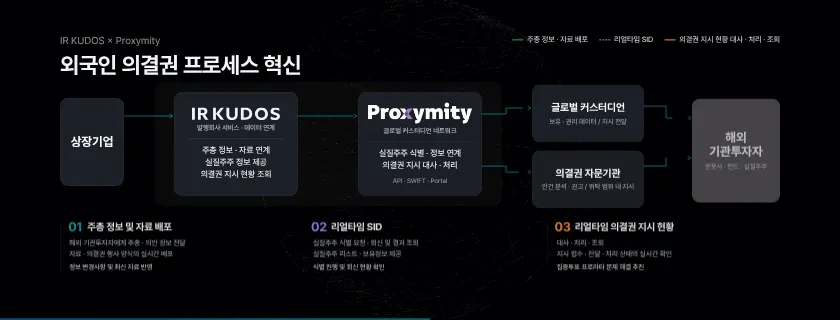
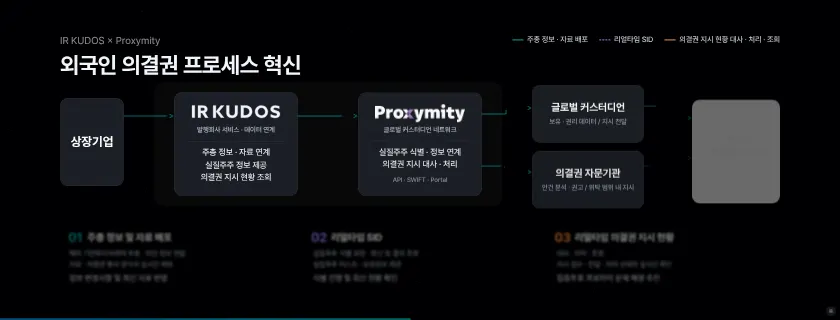
세션4 K19b: IR KUDOS 워드마크 인라인 SVG, Proxymity 로고 축소, 01~03 아래로 · 마지막 줄 40px
Claude-Session: https://claude.ai/code/session_01Mn7NmyW5iujmmHnaRBFKBZ

diff --git a/session4.html b/session4.html
@@ -2005,6 +2005,14 @@ html.r169 #K27 .sec-c{--k27y:560px}
 @keyframes k27s{from{opacity:0}to{opacity:1}}
 /* 11/27 21:02 K18b 뒤 KOSMOS 웹 화면: 아래 페더 마스크 삭제, 크게 키워 오른쪽 · 아래가 화면 밖으로 잘리게 */
 #K18b .k18web{width:2600px!important;height:1700px!important;border-radius:32px 0 0 0!important;-webkit-mask-image:none!important;mask-image:none!important;background-position:left top!important;background-size:125% auto!important}
+/* 11/27 21:04 K19b: IR KUDOS 워드마크를 인라인 SVG로(확대 · 블러 모션에서도 깨지지 않게), Proxymity 로고 약간 축소, 아래 01~03 묶음 40px 아래 · 맨 아래 한 줄 34 → 40px */
+#K19b svg.wm{display:block;width:auto;flex:none;overflow:visible}
+#K19b .irk svg.wm{height:64px;max-width:440px}
+#K19b .k19i svg.wm{height:128px}
+#K19b .pxy img{height:90px}
+#K19b .k19i img:last-child{height:158px}
+#K19b .k19c{top:1210px}
+#K19b .cf{font-size:40px}
 /* ═════ 16:9 버전 (?a=16x9, 11/27) ═════
    ※ 빔프로젝터(led.html?a=16x9) M7-7이 이 모드를 씀. 장을 고치면 ?a=16x9로도 확인하고, 21:8 원본 위치를 바꾸면 아래 html.r169 #Kxx 규칙도 같이 맞출 것.
       R169Z(묶음 축소) 장은 내용 범위를 자동으로 재서 배치하므로 대부분 따라감.
@@ -2324,12 +2332,12 @@ html.r169 #K18a .card,html.r169 #K18c .card{left:60px;right:220px}
 </section>
 
 <section class="s" id="K19b" data-t="외국인 의결권 프로세스 혁신" data-dim=".14">
- <div class="k19i"><img src="assets/irk-wordmark-white.svg" alt="IR KUDOS"><canvas class="k19x" data-viz="xs" width="440" height="440"></canvas><img src="assets/s4/proxymity-logo.png" alt="Proxymity"></div>
+ <div class="k19i"><svg class="wm" role="img" aria-label="IR KUDOS" xmlns="http://www.w3.org/2000/svg" viewBox="221.85 85.21 792.44 113.41"> <g> <path d="M970.2,177.85c10.82,0,17.47-3.76,17.47-11.28,0-5.26-3.16-8.12-10.65-10.83s-22.47-6.62-32.45-11.88c-9.99-5.26-15.31-13.08-15.31-25.26,0-20.9,16.81-33.38,42.1-33.38,11.82,0,26.13,2.71,36.61,7.67v23.16c-12.65-7.07-26.79-10.07-35.95-10.07-9.82,0-16.14,3.46-16.14,10.38,0,5.26,3.33,7.97,10.98,10.68,7.66,2.71,22.63,6.47,32.62,11.88s14.81,14.14,14.81,25.56c0,21.5-17.47,34.14-43.6,34.14-12.48,0-28.12-3.01-39.61-8.57v-24.06c13.48,8.42,29.79,11.88,39.11,11.88v-.02Z" style="fill: #F2F5FA;"/> <polygon points="511.09 85.22 481.74 85.22 437.22 140.41 437.22 135.58 437.22 135.58 437.22 85.22 411.88 85.22 411.88 195.7 437.22 195.7 437.22 141.83 437.22 141.83 437.22 140.58 481.74 195.77 511.09 195.77 466.51 140.49 511.09 85.22" style="fill: #F2F5FA;"/> <path d="M557.13,85.22v62.48c0,7.97,1.13,15.03,5.5,20.39,4.37,5.37,11,8.59,20.22,8.59s15.85-3.22,20.22-8.59,5.66-12.42,5.66-20.39v-62.48h24.74v64.01c0,12.27-2.75,24.69-11.32,34.04-8.57,9.35-22.32,15.33-39.78,15.33s-31.21-5.83-39.62-15.33-11.32-21.31-11.32-34.04v-64.01h25.71-.01Z" style="fill: #F2F5FA;"/> <path d="M661.78,85.22h42.65c17.06,0,32.07,5.34,42.81,15.57,10.74,10.23,16.59,24.13,16.59,39.7s-5.84,29.47-16.59,39.7c-10.74,10.23-25.59,15.57-42.65,15.57h-42.81v-110.55h0ZM727.81,165.99c6.79-5.8,10.9-15.12,10.9-25.5s-4.11-19.7-10.9-25.5-15.64-8.55-25.59-8.55h-15.32v68.1h15.32c9.95,0,18.8-2.75,25.59-8.55h0Z" style="fill: #F2F5FA;"/> <path d="M789.35,141.2c0-31.67,25.06-55.99,58.11-55.99s58.11,25.73,58.11,57.4-25.06,55.99-58.11,55.99-58.11-25.73-58.11-57.4ZM881.13,142.61c0-19.36-14.45-36.08-33.67-36.08s-33.67,16.72-33.67,36.08,14.45,34.67,33.67,34.67,33.67-15.31,33.67-34.67Z" style="fill: #F2F5FA;"/> <path d="M221.85,85.22h25.51v110.55h-25.51v-110.55Z" style="fill: #F2F5FA;"/> <path d="M275.66,85.22h41.75c12.24,0,21.82,1.98,29.66,7.48,7.85,5.5,13.18,14.51,13.18,26.57,0,14.66-8.16,25.8-21.97,31l30.92,45.5h-28.57l-27.94-41.99h-12.08v41.99h-24.96v-110.55h.01ZM315.99,134.54c6.28,0,10.52-.76,13.97-3.05,3.45-2.29,5.34-6.57,5.34-11.15,0-4.89-2.04-9.01-5.34-11.3-3.3-2.29-7.69-3.05-13.97-3.05h-15.38v28.55h15.38Z" style="fill: #F2F5FA;"/> </g> </svg><canvas class="k19x" data-viz="xs" width="440" height="440"></canvas><img src="assets/s4/proxymity-logo.png" alt="Proxymity"></div>
  <div class="top"><p class="eb fu q" style="--i:1">IR KUDOS × Proxymity</p><h2 class="h hm fu" style="--i:1">외국인 의결권 프로세스 혁신</h2></div>
  <div class="lgd fu" style="--i:2"><span class="t"><i></i>주총 정보 · 자료 배포</span><span class="p"><i></i>리얼타임 SID</span><span class="o"><i></i>의결권 지시 현황 대사 · 처리 · 조회</span></div>
  <div class="core fu" style="--i:2"></div>
  <div class="nd co fu" style="--i:2;left:300px;top:560px;width:320px;height:440px"><b>상장기업</b></div>
- <div class="nd irk fu" style="--i:3;left:870px;top:530px;width:620px;height:520px"><img src="assets/irk-wordmark-white.svg" alt="IR KUDOS"><small>발행회사 서비스 · 데이터 연계</small><hr><p>주총 정보 · 자료 연계<br>실질주주 정보 제공<br>의결권 지시 현황 조회</p></div>
+ <div class="nd irk fu" style="--i:3;left:870px;top:530px;width:620px;height:520px"><svg class="wm" role="img" aria-label="IR KUDOS" xmlns="http://www.w3.org/2000/svg" viewBox="221.85 85.21 792.44 113.41"> <g> <path d="M970.2,177.85c10.82,0,17.47-3.76,17.47-11.28,0-5.26-3.16-8.12-10.65-10.83s-22.47-6.62-32.45-11.88c-9.99-5.26-15.31-13.08-15.31-25.26,0-20.9,16.81-33.38,42.1-33.38,11.82,0,26.13,2.71,36.61,7.67v23.16c-12.65-7.07-26.79-10.07-35.95-10.07-9.82,0-16.14,3.46-16.14,10.38,0,5.26,3.33,7.97,10.98,10.68,7.66,2.71,22.63,6.47,32.62,11.88s14.81,14.14,14.81,25.56c0,21.5-17.47,34.14-43.6,34.14-12.48,0-28.12-3.01-39.61-8.57v-24.06c13.48,8.42,29.79,11.88,39.11,11.88v-.02Z" style="fill: #F2F5FA;"/> <polygon points="511.09 85.22 481.74 85.22 437.22 140.41 437.22 135.58 437.22 135.58 437.22 85.22 411.88 85.22 411.88 195.7 437.22 195.7 437.22 141.83 437.22 141.83 437.22 140.58 481.74 195.77 511.09 195.77 466.51 140.49 511.09 85.22" style="fill: #F2F5FA;"/> <path d="M557.13,85.22v62.48c0,7.97,1.13,15.03,5.5,20.39,4.37,5.37,11,8.59,20.22,8.59s15.85-3.22,20.22-8.59,5.66-12.42,5.66-20.39v-62.48h24.74v64.01c0,12.27-2.75,24.69-11.32,34.04-8.57,9.35-22.32,15.33-39.78,15.33s-31.21-5.83-39.62-15.33-11.32-21.31-11.32-34.04v-64.01h25.71-.01Z" style="fill: #F2F5FA;"/> <path d="M661.78,85.22h42.65c17.06,0,32.07,5.34,42.81,15.57,10.74,10.23,16.59,24.13,16.59,39.7s-5.84,29.47-16.59,39.7c-10.74,10.23-25.59,15.57-42.65,15.57h-42.81v-110.55h0ZM727.81,165.99c6.79-5.8,10.9-15.12,10.9-25.5s-4.11-19.7-10.9-25.5-15.64-8.55-25.59-8.55h-15.32v68.1h15.32c9.95,0,18.8-2.75,25.59-8.55h0Z" style="fill: #F2F5FA;"/> <path d="M789.35,141.2c0-31.67,25.06-55.99,58.11-55.99s58.11,25.73,58.11,57.4-25.06,55.99-58.11,55.99-58.11-25.73-58.11-57.4ZM881.13,142.61c0-19.36-14.45-36.08-33.67-36.08s-33.67,16.72-33.67,36.08,14.45,34.67,33.67,34.67,33.67-15.31,33.67-34.67Z" style="fill: #F2F5FA;"/> <path d="M221.85,85.22h25.51v110.55h-25.51v-110.55Z" style="fill: #F2F5FA;"/> <path d="M275.66,85.22h41.75c12.24,0,21.82,1.98,29.66,7.48,7.85,5.5,13.18,14.51,13.18,26.57,0,14.66-8.16,25.8-21.97,31l30.92,45.5h-28.57l-27.94-41.99h-12.08v41.99h-24.96v-110.55h.01ZM315.99,134.54c6.28,0,10.52-.76,13.97-3.05,3.45-2.29,5.34-6.57,5.34-11.15,0-4.89-2.04-9.01-5.34-11.3-3.3-2.29-7.69-3.05-13.97-3.05h-15.38v28.55h15.38Z" style="fill: #F2F5FA;"/> </g> </svg><small>발행회사 서비스 · 데이터 연계</small><hr><p>주총 정보 · 자료 연계<br>실질주주 정보 제공<br>의결권 지시 현황 조회</p></div>
  <div class="nd pxy fu" style="--i:4;left:1790px;top:530px;width:620px;height:520px"><img src="assets/s4/proxymity-logo.png" alt="Proxymity"><small>글로벌 커스터디언 네트워크</small><hr><p>실질주주 식별 · 정보 연계<br>의결권 지시 대사 · 처리</p><small class="api">API · SWIFT · Portal</small></div>
  <div class="nd sm fu" style="--i:5;left:2660px;top:492px;width:560px;height:290px"><b>글로벌 커스터디언</b><small>보유 · 권리 데이터 / 지시 전달</small></div>
  <div class="nd sm fu" style="--i:6;left:2660px;top:820px;width:560px;height:290px"><b>의결권 자문기관</b><small>안건 분석 · 권고 / 위탁 범위 내 지시</small></div>

diff --git a/sw.js b/sw.js
@@ -1,5 +1,5 @@
 /* 오프라인 캐시 — 온라인 주소(https)로 한 번 열면 모든 파일을 저장해 두고, 통신이 끊겨도 저장본으로 동작합니다. */
-const V='seminar-screen-11272103';
+const V='seminar-screen-11272104';
 const FILES=["./","assets/KakaoBigSans-Bold.woff2","assets/KakaoBigSans-Regular.woff2","assets/KakaoSmallSans-Bold.woff2","assets/KakaoSmallSans-Light.woff2","assets/KakaoSmallSans-Regular.woff2","assets/OrbitControls.js","assets/PretendardVariable.woff2","assets/attendees.js","assets/blue-bloom.html","assets/cong1.webp","assets/cong2.webp","assets/ds-bg.html","assets/four-states.html","assets/intro.mp4","assets/irk-white.svg","assets/irk-wordmark-white.svg","assets/kism-intro.mp4","assets/kism-white.svg","assets/ksmp-white.svg","assets/panel.js","assets/qa-online.js","assets/s2/img1.png","assets/s2/img2.png","assets/s2/img3.png","assets/s2/img4.png","assets/s4/aws.webp","assets/s4/callcenter.webp","assets/s4/chair-1.webp","assets/s4/chair-2.webp","assets/s4/chair-3.webp","assets/s4/conexus-word.webp","assets/s4/ctl-1.webp","assets/s4/cx-1.webp","assets/s4/cx-2.webp","assets/s4/cx-3.webp","assets/s4/cx-flow.mp4","assets/s4/cx-pop1.webp","assets/s4/cx-pop2.webp","assets/s4/cx-vote.mp4","assets/s4/cx-vote.webp","assets/s4/cxs-1.webp","assets/s4/insurance.webp","assets/s4/isms-t.webp","assets/s4/isms.webp","assets/s4/ismsp-t.webp","assets/s4/ismsp.webp","assets/s4/kosmos-white.png","assets/s4/ks-1.webp","assets/s4/ks-2.webp","assets/s4/ks-3.webp","assets/s4/ks-4.webp","assets/s4/ks-5.webp","assets/s4/ks-video.webp","assets/s4/live-1.webp","assets/s4/live-2.webp","assets/s4/live-3.webp","assets/s4/live-4.webp","assets/s4/live-5.webp","assets/s4/live-6.webp","assets/s4/live-7.webp","assets/s4/live-8.webp","assets/s4/logos.webp","assets/s4/ocr-1.webp","assets/s4/ocr-2.webp","assets/s4/ocr-3.webp","assets/s4/ocr-4.webp","assets/s4/ocr-5.webp","assets/s4/on-1.png","assets/s4/on-2.webp","assets/s4/on-3.webp","assets/s4/on-4.png","assets/s4/on-5.webp","assets/s4/onboard-1.webp","assets/s4/onboard-2.webp","assets/s4/privacy.webp","assets/s4/proxymity.svg","assets/s4/rehearsal.webp","assets/s4/streaming-korea.webp","assets/s4/tab-1.webp","assets/s4/tab-2.webp","assets/s4/team.webp","assets/sched.js","assets/screen-title-2.svg","assets/screen-title-b-text.svg","assets/screen-title-b.svg","assets/seat-banners.js","assets/seat-fascia.js","assets/seat-screen.js","assets/seatmap.js","assets/service-intro.mp4","assets/speaker-scott.webp","assets/speaker1-1.webp","assets/speaker2.webp","assets/speaker3-1.webp","assets/supabase.min.js","assets/three.min.js","assets/title-logos.svg","control.html","index-fs.html","index.html","kism.html","lobby/cuts.html","lobby/index.html","mc.html","session2.html","session4.html","sw.js","tools/s2_build.py","tools/s2_shell.html","assets/s3/p01.webp","assets/s3/p02.webp","assets/s3/p03.webp","assets/s3/p04.webp","assets/s3/p05.webp","assets/s3/p06.webp","assets/s3/p07.webp","assets/s3/p08.webp","assets/s3/p09.webp","assets/s3/p10.webp","assets/s3/p11.webp","assets/s3/p12.webp","assets/s3/p13.webp","assets/s3/p14.webp","assets/s3/p15.webp","assets/s3/p16.webp","assets/s3/p17.webp","assets/s3/p18.webp","assets/s3/p19.webp","assets/s3/p20.webp","assets/s3/p21.webp","assets/s3/p22.webp","assets/s3/p23.webp","assets/kism/photo-main.webp","assets/kism/photo-2.webp","assets/kism/photo-3.webp","assets/kism/photo-4.webp","assets/sound/countdown-tick.mp3","assets/sound/sfx-s3-part.mp3","assets/sound/sfx-s4-reveal.mp3","assets/sound/sfx-s5-proxymity.mp3","assets/sound/sfx-s6-chime.mp3","assets/sound/sfx-s7-close.mp3","assets/sound/opening-hit.mp3","assets/s4/kosmos-color.svg","assets/s4/ke-logo.png","assets/s4/ke-live.mp4","assets/kism/kwon-talk.mp4","assets/kism/manual-book.webp","kism-open.html","kism_16x9.html","led.html","assets/s4/cx-ops.mp4","assets/s4/cx-ops.webp","assets/s4/agent-app.mp4","assets/s4/kosmos-web.webp","assets/s4/ks-attend.mp4","assets/s4/ks-attend.webp","assets/s4/ks-switch.mp4","assets/s4/ks-switch.webp","assets/s4/ks-notify.mp4","assets/s4/ks-notify.webp","assets/s4/ks-vote.mp4","assets/s4/ks-vote.webp","assets/s4/ks-qna.mp4","assets/s4/ks-qna.webp","assets/s4/pc-map.webp","assets/s4/pc-map.mp4","assets/s4/agent-app.webp","assets/s4/k24b-bg.webp","session0.html","face.html","assets/face-link.js","assets/kism/photo-main-cut.webp","assets/s4/cx-chair.mp4","assets/s4/cx-chair.webp","assets/s4/cx-test.mp4","assets/s4/cx-test.webp","assets/s4/onboard-mgr.webp","assets/s4/proxymity-logo.png","assets/s4/k21-bg.webp","assets/s4/kosmos-admin-white.svg","assets/kism-intro-16x9.mp4","assets/seat-guide.html","assets/s4/app-icon-agent.svg","assets/ds-main.mp4","assets/s4/k2-agency.webp","assets/s4/k2-support.webp","assets/s4/thumbs/K00.webp","assets/s4/thumbs/K01.webp","assets/s4/thumbs/K02.webp","assets/s4/thumbs/K03.webp","assets/s4/thumbs/K04.webp","assets/s4/thumbs/K05.webp","assets/s4/thumbs/K06.webp","assets/s4/thumbs/K07.webp","assets/s4/thumbs/K08.webp","assets/s4/thumbs/K09.webp","assets/s4/thumbs/K10.webp","assets/s4/thumbs/K11.webp","assets/s4/thumbs/K12.webp","assets/s4/thumbs/K13.webp","assets/s4/thumbs/K14.webp","assets/s4/thumbs/K15.webp","assets/s4/thumbs/K16.webp","assets/s4/thumbs/K17.webp","assets/s4/thumbs/K18a.webp","assets/s4/thumbs/K18b.webp","assets/s4/thumbs/K18c.webp","assets/s4/thumbs/K19.webp","assets/s4/thumbs/K19b.webp","assets/s4/thumbs/K19c.webp","assets/s4/thumbs/K20.webp","assets/s4/thumbs/K21.webp","assets/s4/thumbs/K21b.webp","assets/s4/thumbs/K22s.webp","assets/s4/thumbs/K23.webp","assets/s4/thumbs/K23b.webp","assets/s4/thumbs/K24a.webp","assets/s4/thumbs/K24b.webp","assets/s4/thumbs/K24c.webp","assets/s4/thumbs/K25.webp","assets/s4/thumbs/K25b.webp","assets/s4/thumbs/K26.webp","assets/s4/thumbs/K27.webp","assets/s4/thumbs/K28a.webp","assets/s4/thumbs/K28b.webp","assets/s4/thumbs/K28c.webp","assets/s4/thumbs/K28d.webp","assets/s4/thumbs/K29.webp","assets/s4/thumbs/K30.webp","assets/s4/thumbs/K09b.webp","assets/s4/thumbs/K28e.webp","assets/s4/thumbs/K28p.webp","assets/s4/onsite-vote.mp4","assets/s4/onsite-vote.webp","assets/s4/rehearsal-site.webp","assets/qr-ask.svg"];
 self.addEventListener('install',e=>{e.waitUntil(caches.open(V).then(c=>c.addAll(FILES)).then(()=>self.skipWaiting()));});
 self.addEventListener('activate',e=>{e.waitUntil(caches.keys().then(ks=>Promise.all(ks.filter(k=>k!==V).map(k=>caches.delete(k)))).then(()=>self.clients.claim()));});
